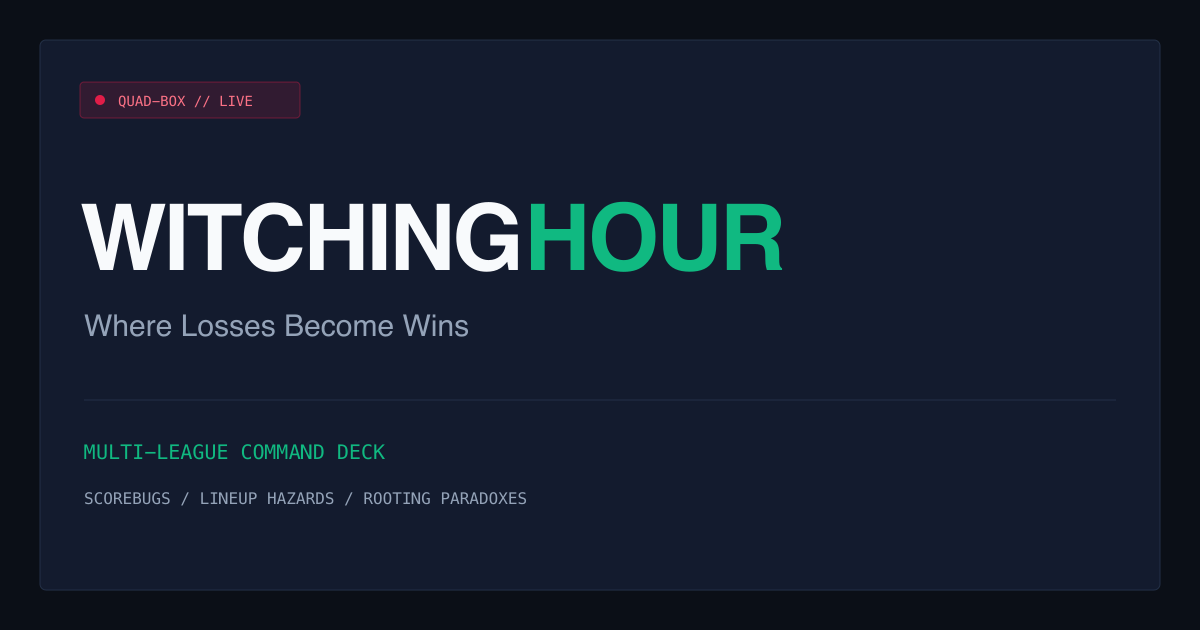
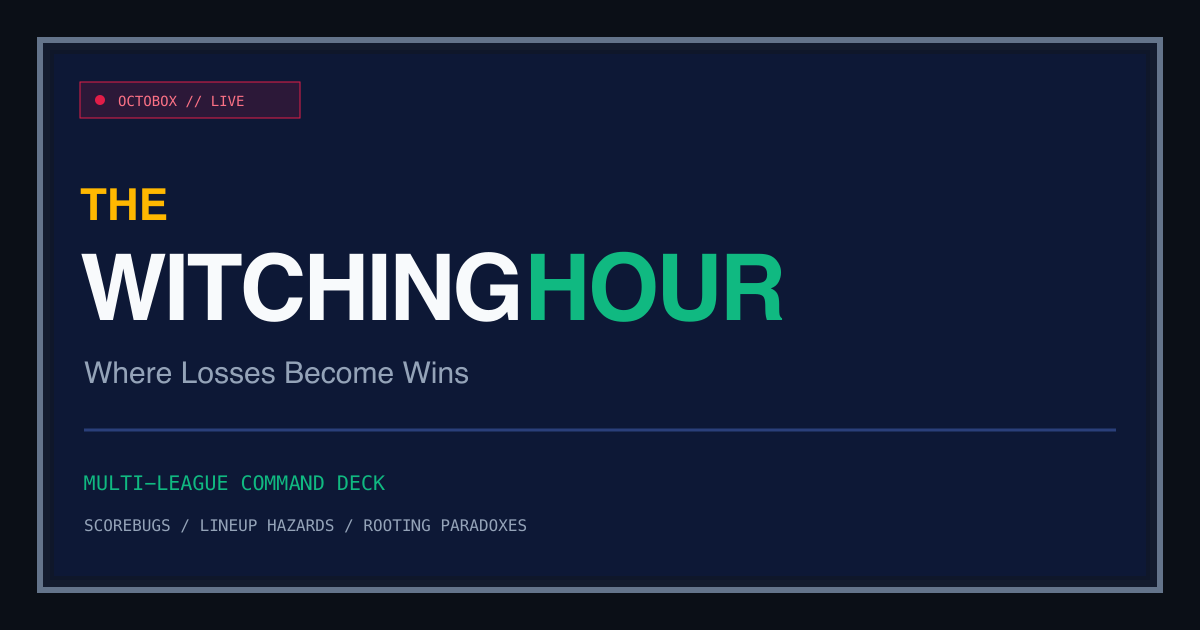
Add first-visit studio guide and update app branding

Changed region(s): [[0.0308, 0.0603, 0.9867, 0.9651]]

diff --git a/src/pages/StudioLandingPage.module.css b/src/pages/StudioLandingPage.module.css
@@ -1,0 +1,51 @@
+.page { max-width: 1480px; margin: 0 auto; padding: clamp(18px, 3vw, 36px); color: #f8fafc; }
+.hero { display: grid; grid-template-columns: minmax(0, 1.3fr) minmax(300px, .8fr); gap: clamp(22px, 4vw, 60px); align-items: center; padding: clamp(18px, 3vw, 38px); background: radial-gradient(circle at 82% 18%, #1d2c58 0, #101b3a 34%, #080e20 76%); border: 2px solid #2a3f7a; box-shadow: 6px 6px 0 #000; position: relative; overflow: hidden; }
+.hero::before { content: ''; position: absolute; inset: 0; pointer-events: none; opacity: .22; background: repeating-linear-gradient(0deg, transparent 0 3px, #000 3px 4px); }
+.hero > * { position: relative; z-index: 1; }
+.eyebrow, .sectionCode { font: 9px/1.5 var(--font-arcade); letter-spacing: .08em; color: #ffb800; }
+.eyebrow { display: inline-flex; align-items: center; gap: 9px; margin-bottom: 21px; }
+.onAirDot { display: inline-block; width: 8px; height: 8px; background: #e11d48; box-shadow: 0 0 10px #e11d48; }
+.intro h1 { margin: 0; color: #f8fafc; font: 900 clamp(42px, 5.8vw, 78px)/.91 var(--font-display); letter-spacing: -.03em; text-transform: uppercase; max-width: 12ch; text-shadow: 4px 4px 0 #000; }
+.intro h1 span { display: block; color: #ffb800; font: 400 clamp(13px, 1.6vw, 18px)/1.3 var(--font-arcade); letter-spacing: .12em; margin-bottom: 5px; text-shadow: none; }
+.intro h1 em { color: #10b981; font-style: normal; }
+.lead { max-width: 52ch; margin: 20px 0 8px; color: #f8fafc; font: 700 clamp(18px, 2vw, 24px)/1.25 var(--font-display); }
+.explainer { max-width: 60ch; margin: 0; color: #c5d0e3; font: 400 15px/1.55 var(--font-body); }
+.actions, .tailActions { display: flex; flex-wrap: wrap; align-items: center; gap: 10px 16px; margin-top: 24px; }
+.primaryAction, .secondaryAction { display: inline-flex; align-items: center; justify-content: center; gap: 14px; min-height: 48px; padding: 10px 16px; text-decoration: none; font: 800 14px var(--font-display); letter-spacing: .05em; border: 2px solid #000; box-shadow: 4px 4px 0 #000; }
+.primaryAction { background: #ffb800; color: #081024; }
+.primaryAction:hover { background: #ffcf42; color: #081024; }
+.secondaryAction { background: #172752; color: #f8fafc; border-color: #3b5284; }
+.secondaryAction:hover { color: #fff; border-color: #ffb800; }
+.primaryAction:active, .secondaryAction:active { transform: translate(3px, 3px); box-shadow: 1px 1px 0 #000; }
+.browserNote { color: #94a3b8; font: 11px/1.45 var(--font-mono); margin: 16px 0 0; }
+.anchor { min-width: 0; max-width: 480px; justify-self: end; }
+.scottMonitor { width: 100%; }
+.scottMonitor [role='img'] { width: 100%; }
+.speech { position: relative; margin: 14px 6px 5px; padding: 13px 16px; background: #f8fafc; color: #0f172a; border: 3px solid #000; box-shadow: 4px 4px 0 #000; }
+.speech::before { content: ''; position: absolute; top: -15px; left: 25px; width: 18px; height: 15px; background: #f8fafc; border-left: 3px solid #000; border-top: 3px solid #000; transform: skewY(35deg); }
+.speech span { color: #991b1b; font: 8px var(--font-arcade); }
+.speech p { margin: 8px 0 0; font: 800 clamp(15px, 1.3vw, 18px)/1.35 var(--font-display); text-transform: uppercase; }
+.guide, .features { margin-top: 36px; }
+.sectionHeading { display: flex; align-items: baseline; gap: 12px 20px; flex-wrap: wrap; border-bottom: 2px solid #2a3f7a; padding-bottom: 10px; margin-bottom: 16px; }
+.sectionHeading h2, .tail h2 { margin: 0; font: 800 clamp(22px, 2.4vw, 32px)/1.05 var(--font-display); letter-spacing: .03em; }
+.steps { display: grid; grid-template-columns: repeat(3, minmax(0, 1fr)); gap: 12px; list-style: none; margin: 0; padding: 0; }
+.steps li { display: flex; gap: 14px; min-width: 0; padding: 18px; background: #0d1836; border: 2px solid #2a3f7a; box-shadow: 3px 3px 0 #000; }
+.steps b { color: #ffb800; font: 11px var(--font-arcade); }
+.steps h3 { margin: 0 0 5px; font: 800 18px/1.1 var(--font-display); text-transform: uppercase; }
+.steps p, .feature p, .tail p { margin: 0; color: #c5d0e3; font: 14px/1.45 var(--font-body); }
+.featureGrid { display: grid; grid-template-columns: repeat(3, minmax(0, 1fr)); gap: 12px; }
+.feature { min-width: 0; padding: 0 17px 18px; background: #0d1836; border: 2px solid #2a3f7a; box-shadow: 3px 3px 0 #000; }
+.featureTop { display: flex; align-items: center; justify-content: space-between; gap: 10px; margin: 0 -17px 15px; padding: 8px 14px; background: #162752; border-bottom: 2px solid #2a3f7a; }
+.featureTop span { color: #ffb800; font: 9px var(--font-arcade); }
+.featureTop small { color: #94a3b8; font: 10px var(--font-mono); letter-spacing: .08em; }
+.feature h3 { margin: 0 0 8px; font: 800 21px/1.1 var(--font-display); text-transform: uppercase; }
+.sourceNote { color: #94a3b8; font: 11px/1.45 var(--font-mono); margin: 15px 0 0; }
+.tail { display: flex; justify-content: space-between; gap: 22px; align-items: center; margin-top: 36px; padding: 22px; border-top: 6px solid #e11d48; background: #131b2e; }
+.tail h2 { margin: 9px 0 7px; }
+.tail p { max-width: 63ch; }
+.tailActions { flex: none; margin: 0; justify-content: flex-end; max-width: 340px; }
+.textAction { color: #10b981; font: 700 12px var(--font-display); letter-spacing: .04em; }
+.textAction:hover { color: #f8fafc; }
+@media (max-width: 1100px) { .hero { grid-template-columns: minmax(0, 1fr) minmax(270px, .8fr); } .featureGrid { grid-template-columns: repeat(2, minmax(0, 1fr)); } }
+@media (max-width: 760px) { .hero { grid-template-columns: 1fr; } .anchor { justify-self: stretch; width: min(100%, 460px); } .steps { grid-template-columns: 1fr; } .tail { flex-direction: column; align-items: flex-start; } .tailActions { justify-content: flex-start; max-width: none; } }
+@media (max-width: 540px) { .page { padding: 14px; } .hero { padding: 18px; } .intro h1 { font-size: clamp(42px, 12vw, 62px); } .featureGrid { grid-template-columns: 1fr; } .actions { align-items: stretch; } .primaryAction, .secondaryAction { width: 100%; } .tail { padding: 18px; } }

diff --git a/src/pages/StudioLandingPage.tsx b/src/pages/StudioLandingPage.tsx
@@ -1,0 +1,89 @@
+import { PixelScott } from '@/components/PixelScott';
+import { StudioMonitorFrame } from '@/components/StudioMonitorFrame';
+import styles from './StudioLandingPage.module.css';
+
+const features = [
+  {
+    channel: 'CH 01', section: 'GAME DAY', title: 'The live wall',
+    text: 'See every matchup, current scores, projections and lineup hazards. Rooting Conflicts shows the players you need both to score and to stop scoring.',
+  },
+  {
+    channel: 'CH 02', section: 'GAME DAY', title: 'RedZone Wire & Scott',
+    text: 'Follow relevant NFL plays and fantasy score changes as they arrive. Pixel Scott calls out hazards, close games and the odd absurdity from the studio desk.',
+  },
+  {
+    channel: 'CH 03', section: 'GAME DAY', title: 'Watch Mode',
+    text: 'Put one league on the big screen. The director can cut between score swings and relevant NFL plays; matched highlights play here when a source allows embedding.',
+  },
+  {
+    channel: 'CH 04', section: 'FRONT OFFICE', title: 'Rosters & players',
+    text: 'Check starters and bench players, follow weekly scores, and trace a player from draft pick to trade, waiver claim or drop.',
+  },
+  {
+    channel: 'CH 05', section: 'FRONT OFFICE', title: 'Waivers & trades',
+    text: 'Review pickups, drops and deals across the league. See who gained value and which decisions changed a roster.',
+  },
+  {
+    channel: 'CH 06', section: 'FRONT OFFICE', title: 'The Blue Tent',
+    text: 'Compare injury absences through the season. Estimate the points lost above a replacement player, including players added from waivers.',
+  },
+  {
+    channel: 'CH 07', section: 'TELEMETRY', title: 'The season on tape',
+    text: 'Compare teams, draft grades, luck and points above replacement. History, awards and recaps give the longer view when the data is available.',
+  },
+  {
+    channel: 'CH 08', section: 'DRAFT ROOM', title: 'Prepare without a league',
+    text: 'Browse rankings and site values, watch ADP trends, or run a mock draft. These public draft tools work before you connect anything.',
+  },
+];
+
+export function StudioLandingPage() {
+  const base = import.meta.env.BASE_URL;
+  return <div className={styles.page}>
+    <header className={styles.hero}>
+      <div className={styles.intro}>
+        <span className={styles.eyebrow}><span className={styles.onAirDot} /> STUDIO 00 // FIRST VISIT</span>
+        <h1><span>THE</span> WITCHING <em>HOUR</em></h1>
+        <p className={styles.lead}>A fantasy football control room for the games, decisions and strange turns of your league.</p>
+        <p className={styles.explainer}>Connect a league to put its matchups on the wall. Follow the live wire on Sunday, then review the trades, pickups, draft picks and luck that shaped the season.</p>
+        <div className={styles.actions}>
+          <a className={styles.primaryAction} href={`${base}settings`}>CONNECT YOUR LEAGUE <span aria-hidden="true">↗</span></a>
+          <a className={styles.secondaryAction} href="#how-it-works">HOW TO USE IT ↓</a>
+        </div>
+        <p className={styles.browserNote}>No account needed. Connected leagues are saved in this browser.</p>
+      </div>
+      <div className={styles.anchor}>
+        <StudioMonitorFrame as="div" channelCode="STUDIO 01" title="PIXEL SCOTT" badge="ON AIR" className={styles.scottMonitor}>
+          <PixelScott state="clear" />
+        </StudioMonitorFrame>
+        <div className={styles.speech}>
+          <span>SCOTT // OPENING TAKE</span>
+          <p>“Welcome to the desk. Patch in a league, pick your team, and I’ll keep an eye on the chaos.”</p>
+        </div>
+      </div>
+    </header>
+
+    <section id="how-it-works" className={styles.guide} aria-labelledby="guide-title">
+      <div className={styles.sectionHeading}><span className={styles.sectionCode}>01 // SIGNAL PATH</span><h2 id="guide-title">HOW TO GET ON AIR</h2></div>
+      <ol className={styles.steps}>
+        <li><b>01</b><div><h3>Connect a league</h3><p>In Settings, find a Sleeper league by username or paste its league link.</p></div></li>
+        <li><b>02</b><div><h3>Choose your team</h3><p>Tell the studio which roster is yours so alerts, matchups and rooting conflicts have context.</p></div></li>
+        <li><b>03</b><div><h3>Watch or review</h3><p>Use Game Day for the live wall. Open the other rooms whenever you want the season story behind a score.</p></div></li>
+      </ol>
+    </section>
+
+    <section className={styles.features} aria-labelledby="features-title">
+      <div className={styles.sectionHeading}><span className={styles.sectionCode}>02 // STUDIO DIRECTORY</span><h2 id="features-title">WHAT'S IN THE CONTROL ROOM</h2></div>
+      <div className={styles.featureGrid}>{features.map(feature => <article className={styles.feature} key={feature.channel}>
+        <div className={styles.featureTop}><span>{feature.channel}</span><small>{feature.section}</small></div>
+        <h3>{feature.title}</h3><p>{feature.text}</p>
+      </article>)}</div>
+      <p className={styles.sourceNote}>NFL play reports flag a game involving your starters; fantasy points and projections come from the league provider. The app labels missing or estimated data.</p>
+    </section>
+
+    <section className={styles.tail} aria-label="Start using the studio">
+      <div><span className={styles.sectionCode}>03 // YOUR CALL</span><h2>PUT A LEAGUE ON THE WALL</h2><p>Start with Sleeper in Settings. Already here for draft prep? Rankings and mock drafts are open without a connection.</p></div>
+      <div className={styles.tailActions}><a className={styles.primaryAction} href={`${base}settings`}>CONNECT YOUR LEAGUE ↗</a><a className={styles.textAction} href={`${base}rankings`}>VIEW RANKINGS →</a><a className={styles.textAction} href={`${base}draft-room`}>OPEN DRAFT ROOM →</a></div>
+    </section>
+  </div>;
+}

diff --git a/src/components/Header.tsx b/src/components/Header.tsx
@@ -75,16 +75,16 @@ export function Header({ league, isGuest, onRefresh, isRefreshing, yearSelector 
   }, 0);
   const lastSync = location.pathname === '/' ? sync.at : times.length && times.every(time => time !== null) ? Math.min(...times as number[]) : null;
   return <header className="app-header">
-    <div className={styles.mobileBar}><Link className={styles.wordmark} to="/">WITCHING <span>HOUR</span></Link><button ref={menu} className={styles.menuButton} aria-label={open ? 'Close navigation' : 'Open navigation'} aria-expanded={open} aria-controls="command-sidebar" onClick={() => setOpen(!open)}><BroadcastIcon kind="menu" size={20} /></button></div>
+    <div className={styles.mobileBar}><Link className={styles.wordmark} to="/" aria-label="The Witching Hour"><span className={styles.article}>THE</span> WITCHING <span>HOUR</span></Link><button ref={menu} className={styles.menuButton} aria-label={open ? 'Close navigation' : 'Open navigation'} aria-expanded={open} aria-controls="command-sidebar" onClick={() => setOpen(!open)}><BroadcastIcon kind="menu" size={20} /></button></div>
     {open && <button className={styles.scrim} aria-label="Close navigation" onClick={() => setOpen(false)} />}
     <aside ref={sidebar} id="command-sidebar" className={`${styles.sidebar} ${open ? styles.open : ''}`}>
-      <Link to="/" className={styles.wordmark} onClick={navClick} aria-label="Witching Hour">WITCHING <span>HOUR</span></Link>
+      <Link to="/" className={styles.wordmark} onClick={navClick} aria-label="The Witching Hour"><span className={styles.article}>THE</span> WITCHING <span>HOUR</span></Link>
       <p className={styles.tagline}>Where Losses Become Wins</p>
-      <div className={styles.broadcast}><span className={styles.pulse} /> <b>ON AIR</b><span>{studioWallName(screenCount).replace('The ', '').toUpperCase()} // LIVE</span></div>
+      <div className={styles.broadcast}><span className={styles.pulse} /> <b>{navLeague ? 'ON AIR' : 'STANDBY'}</b><span>{navLeague ? `${studioWallName(screenCount).replace('The ', '').toUpperCase()} // LIVE` : 'STUDIO 00 // FIRST VISIT'}</span></div>
       <nav aria-label="Main navigation" className={styles.nav}>{groups.map(group => <div className={styles.group} key={group.title}><h2>{group.title}</h2>{group.items.map(([label, href, icon]) => <Link key={label} to={group.title !== 'CONTROL ROOM' && group.title !== 'THE VAULT' || ['/history', '/awards'].includes(href) ? analysisHref(href) : href} className={`${styles.navLink} ${active(href) && !(label === 'League Matchups' && !connected) ? styles.active : ''}`} onClick={navClick} aria-current={active(href) && !(label === 'League Matchups' && !connected) ? 'page' : undefined}><BroadcastIcon kind={icon} size={15} />{label}</Link>)}</div>)}</nav>
       <div className={styles.footer}><button onClick={toggleMute} aria-label={isMuted ? 'Enable sounds' : 'Mute sounds'} aria-pressed={!isMuted} className={styles.audio}><BroadcastIcon kind="audio" />Audio alerts <span>{isMuted ? 'OFF' : 'ON'}</span></button><p>LAST SYNC <time dateTime={lastSync ? new Date(lastSync).toISOString() : undefined}>{lastSync ? formatLocalTime(lastSync) : 'Awaiting data'}</time></p><RefreshCountdownButton className={`${styles.sync} studio-key`} disabled={!saved.length || (location.pathname === '/' && sync.busy)} nextRefreshAt={location.pathname === '/' ? sync.nextRefreshAt : gameDay?.polling?.nextRefreshAt} refreshStartedAt={location.pathname === '/' ? sync.refreshStartedAt : gameDay?.polling?.refreshStartedAt} onClick={() => { setOpen(false); if (location.pathname === '/') window.dispatchEvent(new Event('witching-hour:sync-all')); else navigate('/?sync=all'); }}><BroadcastIcon kind="sync" />{location.pathname === '/' && sync.busy ? 'Syncing leagues…' : 'Sync All Leagues'}</RefreshCountdownButton></div>
     </aside>
-    <div className={styles.dock}><nav aria-label="League dock" className={styles.leagues}><Link className={`${styles.leaguePill} ${location.pathname === '/' && !new URLSearchParams(location.search).has('league') ? styles.selected : ''}`} to="/" onClick={() => { if (location.pathname !== '/' || new URLSearchParams(location.search).has('league')) playChannelSwitch(); }}>All Leagues</Link>{dockLeagues.map(row => {
+    <div className={styles.dock}><nav aria-label="League dock" className={styles.leagues}><Link className={`${styles.leaguePill} ${location.pathname === '/' && !new URLSearchParams(location.search).has('league') ? styles.selected : ''}`} to="/" onClick={() => { if (location.pathname !== '/' || new URLSearchParams(location.search).has('league')) playChannelSwitch(); }}>{navLeague ? 'All Leagues' : 'Start Here'}</Link>{dockLeagues.map(row => {
       const identity = { platform: row.platform, id: row.leagueId, season: row.season };
       const snapshot = connected && league.id === row.leagueId && league.platform === row.platform && league.season === row.season ? gameDay?.snapshot ?? loadGameDayCache(identity) : loadGameDayCache(identity);
       const cached = loadCachedLeague(row.platform, row.leagueId, row.season);

diff --git a/index.html b/index.html
@@ -29,19 +29,19 @@
     <link rel="canonical" href="https://fantasy-game-day.space.fast/">
     <!-- Open Graph / Social Media -->
     <meta property="og:type" content="website">
-    <meta property="og:site_name" content="Witching Hour">
+    <meta property="og:site_name" content="The Witching Hour">
     <meta property="og:url" content="https://fantasy-game-day.space.fast/">
-    <meta property="og:title" content="Witching Hour">
+    <meta property="og:title" content="The Witching Hour">
     <meta property="og:description" content="Free fantasy football team and league analyzer for Sleeper, ESPN, and Yahoo. Grade your draft, settle trades, run mock drafts, and see who really got lucky. No signup, open source.">
     <meta property="og:image" content="https://fantasy-game-day.space.fast/og.png">
     <meta property="og:image:width" content="1200">
     <meta property="og:image:height" content="630">
-    <meta property="og:image:alt" content="Witching Hour: draft grades, trade verdicts, and league analysis">
+    <meta property="og:image:alt" content="The Witching Hour: draft grades, trade verdicts, and league analysis">
     <meta name="twitter:card" content="summary_large_image">
-    <meta name="twitter:title" content="Witching Hour">
+    <meta name="twitter:title" content="The Witching Hour">
     <meta name="twitter:description" content="Free fantasy football team and league analyzer for Sleeper, ESPN, and Yahoo. Grade your draft, settle trades, run mock drafts, and see who really got lucky. No signup, open source.">
     <meta name="twitter:image" content="https://fantasy-game-day.space.fast/og.png">
-    <meta name="twitter:image:alt" content="Witching Hour: draft grades, trade verdicts, and league analysis">
+    <meta name="twitter:image:alt" content="The Witching Hour: draft grades, trade verdicts, and league analysis">
     <!-- Google Analytics -->
     <script async src="https://www.googletagmanager.com/gtag/js?id=G-SXG8M67HPV"></script>
     <script>
@@ -59,7 +59,7 @@
       if (window.location.hostname === 'fantasyfootballanalyzer.app') {
         gtag('config', 'G-SXG8M67HPV', {
           cookie_domain: window.location.hostname,
-          content_group: 'Witching Hour',
+          content_group: 'The Witching Hour',
           send_page_view: false,
           page_location: window.location.origin + window.location.pathname,
         });
@@ -67,13 +67,13 @@
     </script>
     <!-- Preload the UI face; other weights and JetBrains Mono load on demand. -->
     <link rel="preload" as="font" type="font/woff2" crossorigin href="/fonts/inter-latin-wght-normal.woff2">
-    <title>Witching Hour // Multi-League Command Deck</title>
+    <title>The Witching Hour // Multi-League Command Deck</title>
     <!-- Structured data: free web app, helps rich results understand the tool. -->
     <script type="application/ld+json">
       {
         "@context": "https://schema.org",
         "@type": "WebApplication",
-        "name": "Witching Hour",
+        "name": "The Witching Hour",
         "url": "https://fantasy-game-day.space.fast/",
         "description": "Free fantasy football team and league analyzer for Sleeper, ESPN, and Yahoo. Grade your draft, settle trades, run mock drafts, and see who really got lucky. No signup, open source.",
         "applicationCategory": "SportsApplication",

diff --git a/src/App.tsx b/src/App.tsx
@@ -17,6 +17,7 @@ import { TacticalLoading } from '@/components/TacticalLoading';
 // all reach the full draft pool), so importing the homepage through it would drag
 // them — and the pool — back into the eager entry chunk.
 import { MyGameDayPage } from '@/pages/MyGameDayPage';
+import { StudioLandingPage } from '@/pages/StudioLandingPage';
 import { SettingsPage } from '@/pages/SettingsPage';
 import { ToolLanding } from '@/pages/ToolLanding';
 import { TOOL_LANDINGS } from '@/pages/toolLandings';
@@ -47,6 +48,7 @@ const LuckPage = lazyPage(() => import('@/pages/LuckPage'), 'LuckPage');
 const BlueTentPage = lazyPage(() => import('@/pages/BlueTentPage'), 'BlueTentPage');
 const PlayerJourneyPage = lazyPage(() => import('@/pages/PlayerJourneyPage'), 'PlayerJourneyPage');
 import { useLeague } from '@/hooks/useLeague';
+import { useSavedLeagues } from '@/hooks/useSavedLeagues';
 import { GameDayContext, useGameDayState } from '@/hooks/useGameDay';
 import { useSounds } from '@/hooks/useSounds';
 import {
@@ -155,6 +157,7 @@ function App() {
     league, credentials, isLoading, error, progress, load, refresh, clear, enterGuest, updateGuest,
     seasonFallbackNotice, dismissSeasonFallbackNotice,
   } = useLeague();
+  const savedLeagues = useSavedLeagues();
   const gameDay = useGameDayState(league, credentials, { poll: true });
   const globalPage = ['/', '/settings', '/recap'].includes(location.pathname);
   useEffect(() => {
@@ -221,9 +224,9 @@ function App() {
       ? posForSlug(location.pathname.slice('/rankings/'.length).replace(/\/+$/, ''))
       : undefined;
     const page = rankPos ? `${labelForPos(rankPos)} Rankings` : PAGE_TITLES[location.pathname];
-    document.title = location.pathname === '/' ? 'Witching Hour // Multi-League Command Deck' : page
-      ? `${page} · Witching Hour`
-      : 'Witching Hour';
+    document.title = location.pathname === '/' ? 'The Witching Hour // Multi-League Command Deck' : page
+      ? `${page} · The Witching Hour`
+      : 'The Witching Hour';
     // Sanitized, path-only page_view (gtag's automatic one is disabled so the
     // token-bearing /yahoo-success URL never reaches GA). Fires per SPA route.
     Analytics.pageView(location.pathname);
@@ -704,7 +707,11 @@ function App() {
             (pageIn, in index.css). Entrance-only - no exit orchestration. */}
         <div key={location.pathname} className="page-in">
         <Routes>
-          <Route path="/" element={<MyGameDayPage currentLeague={league} />} />
+          <Route path="/" element={savedLeagues.length || (league && !league.isGuest)
+            ? <MyGameDayPage currentLeague={league} />
+            : shareLoadPending
+              ? <div style={{ display: 'flex', justifyContent: 'center', padding: '4rem' }}><TacticalLoading /></div>
+              : <StudioLandingPage />} />
           <Route path="/recap" element={<GameDayRecapPage />} />
           <Route path="/settings" element={<SettingsPage onLoadLeague={handleLoadLeague} isLoading={isLoading} error={error} progress={progress} />} />
 

diff --git a/src/components/StudioBroadcastDesk.tsx b/src/components/StudioBroadcastDesk.tsx
@@ -21,7 +21,7 @@ function downloadShowCard(show: ShowSummary) {
     const y = 174 + index * 116;
     return `<text x="78" y="${y}" fill="#ffb800" font-size="18" font-weight="700">${escapeXml(label)}</text>${wrapped.slice(0, 2).map((part, partIndex) => `<text x="78" y="${y + 34 + partIndex * 25}" fill="#f8fafc" font-size="19">${escapeXml(part)}</text>`).join('')}`;
   });
-  const svg = `<svg xmlns="http://www.w3.org/2000/svg" width="1200" height="675" viewBox="0 0 1200 675"><defs><pattern id="scan" width="4" height="4" patternUnits="userSpaceOnUse"><path d="M0 3h4" stroke="#000" stroke-opacity=".2"/></pattern></defs><rect width="1200" height="675" fill="#334155"/><rect x="24" y="24" width="1152" height="627" fill="#0d1836" stroke="#64748b" stroke-width="8"/><rect x="42" y="42" width="1116" height="78" fill="#9f1239"/><text x="76" y="94" fill="#fff" font-family="monospace" font-size="37" font-weight="700">${escapeXml(show.title)}</text>${lines.join('')}<rect x="42" y="42" width="1116" height="590" fill="url(#scan)"/><text x="1050" y="623" fill="#10b981" font-family="monospace" font-size="13">WITCHING HOUR</text></svg>`;
+  const svg = `<svg xmlns="http://www.w3.org/2000/svg" width="1200" height="675" viewBox="0 0 1200 675"><defs><pattern id="scan" width="4" height="4" patternUnits="userSpaceOnUse"><path d="M0 3h4" stroke="#000" stroke-opacity=".2"/></pattern></defs><rect width="1200" height="675" fill="#334155"/><rect x="24" y="24" width="1152" height="627" fill="#0d1836" stroke="#64748b" stroke-width="8"/><rect x="42" y="42" width="1116" height="78" fill="#9f1239"/><text x="76" y="94" fill="#fff" font-family="monospace" font-size="37" font-weight="700">${escapeXml(show.title)}</text>${lines.join('')}<rect x="42" y="42" width="1116" height="590" fill="url(#scan)"/><text x="1025" y="623" fill="#10b981" font-family="monospace" font-size="13">THE WITCHING HOUR</text></svg>`;
   const url = URL.createObjectURL(new Blob([svg], { type: 'image/svg+xml' }));
   const link = document.createElement('a'); link.href = url; link.download = `witching-hour-${show.phase.toLowerCase()}-show.svg`; link.click();
   window.setTimeout(() => URL.revokeObjectURL(url), 1000);

diff --git a/scripts/prerender.tsx b/scripts/prerender.tsx
@@ -8,7 +8,7 @@
 // contract to keep; the injected markup is purely for crawlers and first paint.
 //
 // Pages emitted (each a real dist/<route>/index.html that returns HTTP 200):
-//   - index.html              - Game Day entry and Settings link.
+//   - index.html              - no-league studio guide and Settings link.
 //   - rankings/               - top-200 half-PPR consensus rankings table.
 //   - rankings/<pos>/         - one per position (qb, rb, wr, te, k, dst, flex).
 //   - trends/                 - day/week consensus-board risers and fallers.
@@ -21,8 +21,8 @@
 // route (the ones a guest can land on) gets its own prerendered file; gated
 // data routes stay on the shim and aren't meant to be indexed.
 //
-// The homepage is a generic Game Day shell; private league data is loaded
-// only in the user's browser. Rankings use a static pool snapshot.
+// The homepage is the no-league studio guide. Connected users see the live
+// Game Day wall after the client reads their locally saved leagues.
 //
 // This must never fail the build: a throw here degrades to the empty-root SPA
 // (crawlers lose the prerendered copy, users are unaffected) rather than
@@ -342,7 +342,8 @@ async function prerender() {
     }
 
     // --- Homepage ---
-    const homeMarkup = `<main class="container"><h1>Game Day</h1><p>Your teams across every saved league, in one scoreboard.</p><p>Leagues and team choices are saved locally in your browser.</p><a href="${basePath}settings">Connect leagues in Settings</a></main>`
+    const { StudioLandingPage } = await vite.ssrLoadModule('/src/pages/StudioLandingPage.tsx')
+    const homeMarkup = `<main id="main-content">${renderToStaticMarkup(createElement(StudioLandingPage))}</main>`
     writeFileSync(DIST_HTML, inject(homeMarkup))
     console.log(`[prerender] injected ${homeMarkup.length} bytes of homepage HTML`)
 

diff --git a/src/components/LeagueWatchMode.tsx b/src/components/LeagueWatchMode.tsx
@@ -376,7 +376,7 @@ export function LeagueWatchMode({ saved, snapshot, data, changes, hazards, now, 
   const updateVideoPhase = (videoId: string, phase: VideoPhase) => setPlayingVideo(current => current?.video.id === videoId && current.phase !== 'blocked' && current.phase !== 'unavailable' ? { ...current, phase } : current);
 
   return createPortal(<div className={styles.overlay} ref={panelRef} role="dialog" aria-modal="true" aria-label={`${saved.name} watch mode`}>
-    <header className={styles.header}><div className={styles.brand}><span className={styles.live}>● LIVE</span><div><strong>WITCHING HOUR // WATCH MODE</strong><small>{saved.name} · Week {snapshot.week} · {channels.length} {channels.length === 1 ? 'game' : 'games'}</small></div></div><div className={styles.headerActions}>
+    <header className={styles.header}><div className={styles.brand}><span className={styles.live}>● LIVE</span><div><strong>THE WITCHING HOUR // WATCH MODE</strong><small>{saved.name} · Week {snapshot.week} · {channels.length} {channels.length === 1 ? 'game' : 'games'}</small></div></div><div className={styles.headerActions}>
       <button type="button" aria-pressed={highlightsOpen} onClick={() => { setHighlightsOpen(value => !value); setDiagnosticsOpen(false); }}>NFL HIGHLIGHTS</button>
       <button type="button" aria-pressed={diagnosticsOpen} onClick={() => { setDiagnosticsOpen(value => !value); setHighlightsOpen(false); }}>DIRECTOR DIAGNOSTICS</button>
       <button type="button" onClick={() => updatePreferences(previous => ({ ...previous, frequency: previous.frequency === 'balanced' ? 'more' : previous.frequency === 'more' ? 'less' : 'balanced' }))}>CLIPS: {preferences.frequency.toUpperCase()}</button>

diff --git a/src/App.test.tsx b/src/App.test.tsx
@@ -140,6 +140,7 @@ vi.mock('@/pages/SettingsPage', () => ({
 }));
 vi.mock('@/pages/GameDayRecapPage', () => ({ GameDayRecapPage: () => <div data-testid="recap-page" /> }));
 vi.mock('@/pages/MyGameDayPage', () => ({ MyGameDayPage: () => <div data-testid="home-page" /> }));
+vi.mock('@/pages/StudioLandingPage', () => ({ StudioLandingPage: () => <div data-testid="studio-landing" /> }));
 // The lazy pages the routes below can reach (lazyPage resolves these mocks
 // through the same dynamic import).
 vi.mock('@/pages/GameDayPage', () => ({ GameDayPage: () => <div data-testid="league-game-day" /> }));
@@ -202,6 +203,21 @@ beforeEach(() => {
   });
   h.enterGuestMock.mockImplementation(() => {
     h.store.set({ league: sleeperLeague('guest', { isGuest: true } as Partial<League>) });
+  });
+});
+
+describe('home experience', () => {
+  it('opens the studio guide when no league is connected', () => {
+    renderApp('/');
+    expect(screen.getByTestId('studio-landing')).toBeInTheDocument();
+    expect(screen.queryByTestId('home-page')).not.toBeInTheDocument();
+  });
+
+  it('keeps the live Game Day wall for a connected league', () => {
+    h.store.league = sleeperLeague('55');
+    renderApp('/');
+    expect(screen.getByTestId('home-page')).toBeInTheDocument();
+    expect(screen.queryByTestId('studio-landing')).not.toBeInTheDocument();
   });
 });
 

diff --git a/src/pages/StudioLandingPage.test.tsx b/src/pages/StudioLandingPage.test.tsx
@@ -1,0 +1,15 @@
+import { expect, it } from 'vitest';
+import { render, screen } from '@testing-library/react';
+import { StudioLandingPage } from './StudioLandingPage';
+
+it('gives a first-time visitor a setup path and a useful studio guide', () => {
+  render(<StudioLandingPage />);
+
+  expect(screen.getByRole('heading', { level: 1, name: /the witching hour/i })).toBeInTheDocument();
+  expect(screen.getAllByRole('link', { name: /connect your league/i })[0]).toHaveAttribute('href', '/settings');
+  expect(screen.getByText(/find a Sleeper league by username/i)).toBeInTheDocument();
+  expect(screen.getByRole('heading', { name: /RedZone Wire & Scott/i })).toBeInTheDocument();
+  expect(screen.getByRole('heading', { name: /The Blue Tent/i })).toBeInTheDocument();
+  expect(screen.getByRole('heading', { name: /Prepare without a league/i })).toBeInTheDocument();
+  expect(screen.getByRole('img', { name: /Pixel Scott/i })).toBeInTheDocument();
+});

diff --git a/src/utils/draftShareLists.test.ts b/src/utils/draftShareLists.test.ts
@@ -123,7 +123,7 @@ describe('buildShareLists (snake)', () => {
     const text = shareListText(lists, 'values');
     expect(text).toContain('Biggest Steals · 2026 draft');
     expect(text).toContain(`pick 4, ADP 1 (fell 3)`);
-    expect(text).toContain('Witching Hour');
+    expect(text).toContain('The Witching Hour');
     expect(shareListText(lists, 'reaches')).toContain('(18 early)');
   });
 });
@@ -257,8 +257,8 @@ describe('text edge cases', () => {
       superflex: false,
     });
     const all = shareAllText(lists);
-    expect(all.match(/Witching Hour/g)).toHaveLength(1);
-    expect(all.endsWith('Witching Hour')).toBe(true);
+    expect(all.match(/The Witching Hour/g)).toHaveLength(1);
+    expect(all.endsWith('The Witching Hour')).toBe(true);
     expect(all).toContain('Draft Scoreboard · 2026 draft');
   });
 });

diff --git a/src/components/Header.module.css b/src/components/Header.module.css
@@ -1,6 +1,7 @@
 .sidebar { position: fixed; inset: 0 auto 0 0; width: 220px; z-index: 60; display: flex; flex-direction: column; background: var(--ink-2); border-right: 1px solid var(--rule); padding: 24px 14px 16px; }
 .wordmark { color: var(--bone); font: 850 19px/1.2 var(--font-body); letter-spacing: -.03em; white-space: nowrap; }
 .wordmark span { color: var(--lime); }
+.wordmark .article { color: var(--gold); font: 700 10px var(--font-display); letter-spacing: .04em; margin-right: 2px; }
 .tagline { color: var(--bone-dim); font-size: 10px; margin: 6px 0 18px; }
 .broadcast { display: flex; flex-wrap: wrap; align-items: center; gap: 5px; padding: 7px; color: #fb7185; border: 1px solid #e11d4866; background: #e11d4826; border-radius: 4px; font: 400 10px var(--font-mono); }
 .broadcast b { font-weight: 600; }
